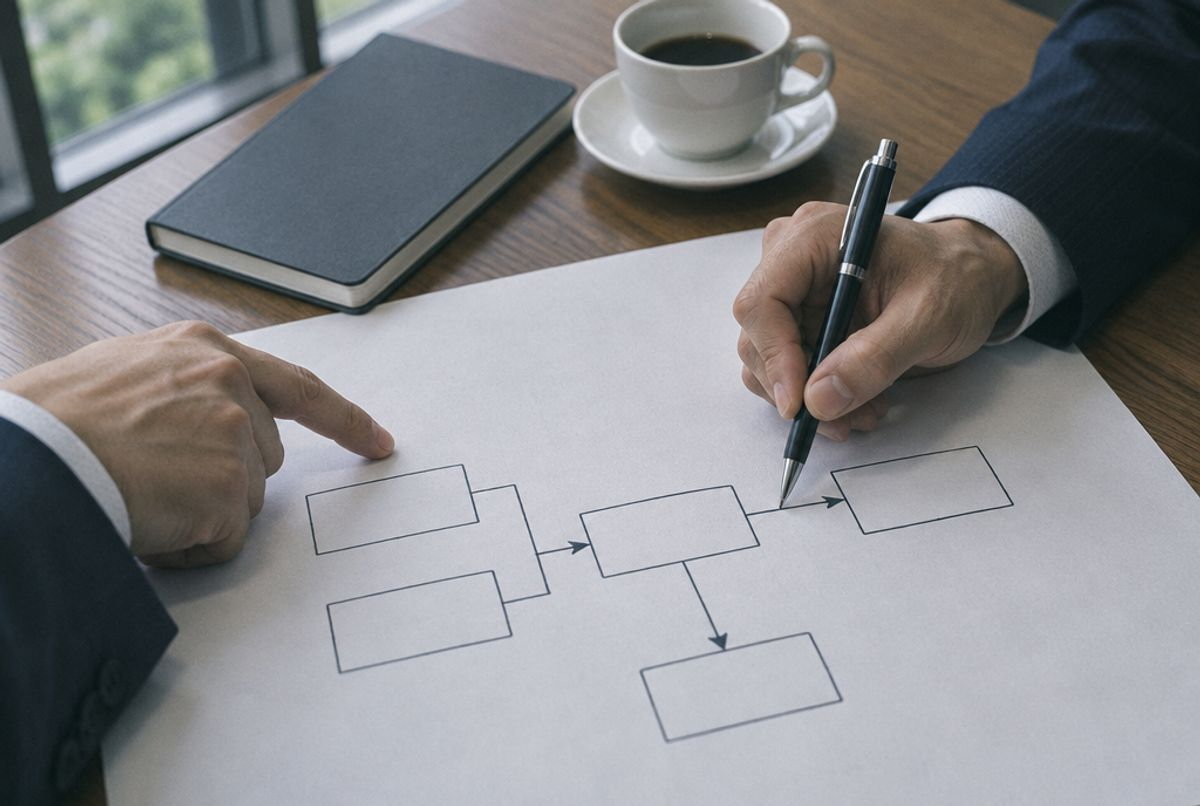
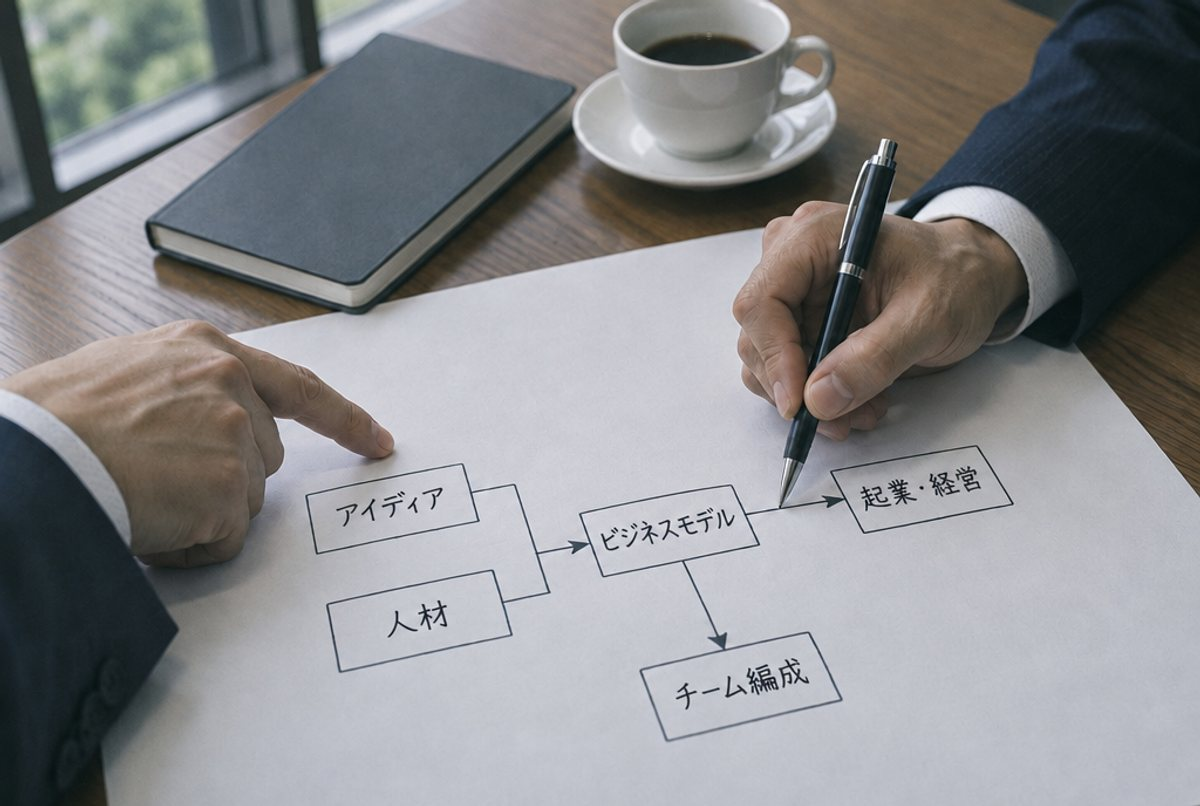
「ビジネスプロデュースとは」の写真：図の5つの枠に言葉を書き入れた画像に差し替え

diff --git a/index.html b/index.html
@@ -12,7 +12,7 @@
 <link rel="preconnect" href="https://fonts.googleapis.com">
 <link rel="preconnect" href="https://fonts.gstatic.com" crossorigin>
 <link rel="stylesheet" href="https://fonts.googleapis.com/css2?family=Barlow+Condensed:wght@500;600&family=Noto+Sans+JP:wght@400;500;700&display=swap">
-<link rel="stylesheet" href="assets/css/style.css?v=202611060234">
+<link rel="stylesheet" href="assets/css/style.css?v=202611060242">
 </head>
 <body id="top" class="home">
 
@@ -55,7 +55,7 @@
 			<a href="#about" class="text-link fx from-r" style="--d:2.05s">ビジネスプロデュースとは<svg viewBox="0 0 24 24" width="16" height="16" aria-hidden="true"><path d="M5 12h14M13 6l6 6-6 6" fill="none" stroke="currentColor" stroke-width="2"/></svg></a>
 		</div>
 	</div>
-	<div class="hero-photo"><img src="assets/img/hero.jpg?v=202611060234" alt="" width="1920" height="1080"></div>
+	<div class="hero-photo"><img src="assets/img/hero.jpg?v=202611060242" alt="" width="1920" height="1080"></div>
 </section>
 
 <section class="entries" aria-label="ご相談の内容から探す">
@@ -95,7 +95,7 @@
 				<p>企業と人材のマッチングを行う顧問ビジネスが盛んになりました。その中には、登録している「企業」と「人材」を一定の条件下で紹介するだけのサービスも見られます。</p>
 				<p>当社のビジネスプロデューサーは、人や企業を紹介して終わりではありません。ビジネスモデルの創造から、人材の選定・チーム編成、起業・経営まで、責任を持って携わります。</p>
 			</div>
-			<div class="about-photo"><img src="assets/img/about.jpg?v=202611060234" alt="" width="1200" height="800" loading="lazy"></div>
+			<div class="about-photo"><img src="assets/img/about.jpg?v=202611060242" alt="" width="1200" height="800" loading="lazy"></div>
 		</div>
 
 		<div class="flow" role="img" aria-label="一般的なマッチングは紹介して終わり。カーネルコンサルティングのビジネスプロデュースは、ビジネスモデルの創造、人材の選定・チーム編成、起業、経営まで携わります。">
@@ -147,25 +147,25 @@
 		</div>
 		<ul class="biz-list">
 			<li><a href="business.html#startup">
-				<span class="biz-img"><img src="assets/img/biz-startup.jpg?v=202611060234" alt="" width="900" height="600" loading="lazy"></span>
+				<span class="biz-img"><img src="assets/img/biz-startup.jpg?v=202611060242" alt="" width="900" height="600" loading="lazy"></span>
 				<span class="biz-en">START UP</span>
 				<span class="biz-t">新規事業の立ち上げ</span>
 				<span class="biz-d">ビジネスプロデューサーが予算の策定・チーム編成を行い、事業を軌道に乗せます。</span>
 			</a></li>
 			<li><a href="business.html#ma">
-				<span class="biz-img"><img src="assets/img/biz-ma.jpg?v=202611060234" alt="" width="900" height="600" loading="lazy"></span>
+				<span class="biz-img"><img src="assets/img/biz-ma.jpg?v=202611060242" alt="" width="900" height="600" loading="lazy"></span>
 				<span class="biz-en">M&amp;A</span>
 				<span class="biz-t">ビジネスモデルの販売</span>
 				<span class="biz-d">事業部として、新会社として。あらゆるステージのビジネスモデルを丸ごとご提供します。</span>
 			</a></li>
 			<li><a href="business.html#school">
-				<span class="biz-img"><img src="assets/img/biz-school.jpg?v=202611060234" alt="" width="900" height="600" loading="lazy"></span>
+				<span class="biz-img"><img src="assets/img/biz-school.jpg?v=202611060242" alt="" width="900" height="600" loading="lazy"></span>
 				<span class="biz-en">SCHOOL</span>
 				<span class="biz-t">学校法人の支援</span>
 				<span class="biz-d">全日制・通信制・定時制の高等学校や塾・予備校の、ICT教育と生徒募集を支援します。</span>
 			</a></li>
 			<li><a href="business.html#shop">
-				<span class="biz-img"><img src="assets/img/biz-shop.jpg?v=202611060234" alt="" width="900" height="600" loading="lazy"></span>
+				<span class="biz-img"><img src="assets/img/biz-shop.jpg?v=202611060242" alt="" width="900" height="600" loading="lazy"></span>
 				<span class="biz-en">SHOP</span>
 				<span class="biz-t">店舗の経営再建</span>
 				<span class="biz-d">ネイルサロンなど、店舗の経営再建の実績があります。資金調達からご相談ください。</span>
@@ -207,7 +207,7 @@
 			<div><dt>設立</dt><dd>2001年8月</dd></div>
 		</dl>
 	</div>
-	<div class="town-bg"><img src="assets/img/takanawa.jpg?v=202611060234" alt="" width="1600" height="1067" loading="lazy"></div>
+	<div class="town-bg"><img src="assets/img/takanawa.jpg?v=202611060242" alt="" width="1600" height="1067" loading="lazy"></div>
 </section>
 
 <section class="cta">
@@ -249,6 +249,6 @@
 </footer>
 
 <a href="#top" class="to-top" id="toTop" aria-label="ページの先頭へ"><svg viewBox="0 0 24 24" width="18" height="18" aria-hidden="true"><path d="M5 15l7-7 7 7" fill="none" stroke="currentColor" stroke-width="2"/></svg></a>
-<script src="assets/js/main.js?v=202611060234"></script>
+<script src="assets/js/main.js?v=202611060242"></script>
 </body>
 </html>

diff --git a/business.html b/business.html
@@ -12,7 +12,7 @@
 <link rel="preconnect" href="https://fonts.googleapis.com">
 <link rel="preconnect" href="https://fonts.gstatic.com" crossorigin>
 <link rel="stylesheet" href="https://fonts.googleapis.com/css2?family=Barlow+Condensed:wght@500;600&family=Noto+Sans+JP:wght@400;500;700&display=swap">
-<link rel="stylesheet" href="assets/css/style.css?v=202611060234">
+<link rel="stylesheet" href="assets/css/style.css?v=202611060242">
 </head>
 <body id="top" class="sub">
 
@@ -59,7 +59,7 @@
 
 <section class="svc sec" id="startup">
 	<div class="inner svc-grid">
-		<div class="svc-photo"><img src="assets/img/biz-startup.jpg?v=202611060234" alt="" width="900" height="600"></div>
+		<div class="svc-photo"><img src="assets/img/biz-startup.jpg?v=202611060242" alt="" width="900" height="600"></div>
 		<div class="svc-text">
 			<p class="eyebrow">START UP</p>
 			<h2>M&amp;Aを視野に入れた、<br>新規事業の立ち上げ</h2>
@@ -80,7 +80,7 @@
 
 <section class="svc sec alt" id="ma">
 	<div class="inner svc-grid rev">
-		<div class="svc-photo"><img src="assets/img/biz-ma.jpg?v=202611060234" alt="" width="900" height="600" loading="lazy"></div>
+		<div class="svc-photo"><img src="assets/img/biz-ma.jpg?v=202611060242" alt="" width="900" height="600" loading="lazy"></div>
 		<div class="svc-text">
 			<p class="eyebrow">M&amp;A</p>
 			<h2>あらゆるステージの<br>ビジネスモデルを販売</h2>
@@ -101,7 +101,7 @@
 
 <section class="svc sec" id="school">
 	<div class="inner svc-grid">
-		<div class="svc-photo"><img src="assets/img/biz-school.jpg?v=202611060234" alt="" width="900" height="600" loading="lazy"></div>
+		<div class="svc-photo"><img src="assets/img/biz-school.jpg?v=202611060242" alt="" width="900" height="600" loading="lazy"></div>
 		<div class="svc-text">
 			<p class="eyebrow">SCHOOL</p>
 			<h2 class="pair-h"><span>学校法人</span><i class="x" aria-label="かける"></i><span>生徒募集</span></h2>
@@ -120,7 +120,7 @@
 
 <section class="svc sec alt" id="shop">
 	<div class="inner svc-grid rev">
-		<div class="svc-photo"><img src="assets/img/biz-shop.jpg?v=202611060234" alt="" width="900" height="600" loading="lazy"></div>
+		<div class="svc-photo"><img src="assets/img/biz-shop.jpg?v=202611060242" alt="" width="900" height="600" loading="lazy"></div>
 		<div class="svc-text">
 			<p class="eyebrow">SHOP</p>
 			<h2 class="pair-h"><span>店舗</span><i class="x" aria-label="かける"></i><span>経営再建</span></h2>
@@ -175,6 +175,6 @@
 </footer>
 
 <a href="#top" class="to-top" id="toTop" aria-label="ページの先頭へ"><svg viewBox="0 0 24 24" width="18" height="18" aria-hidden="true"><path d="M5 15l7-7 7 7" fill="none" stroke="currentColor" stroke-width="2"/></svg></a>
-<script src="assets/js/main.js?v=202611060234"></script>
+<script src="assets/js/main.js?v=202611060242"></script>
 </body>
 </html>

diff --git a/company.html b/company.html
@@ -12,7 +12,7 @@
 <link rel="preconnect" href="https://fonts.googleapis.com">
 <link rel="preconnect" href="https://fonts.gstatic.com" crossorigin>
 <link rel="stylesheet" href="https://fonts.googleapis.com/css2?family=Barlow+Condensed:wght@500;600&family=Noto+Sans+JP:wght@400;500;700&display=swap">
-<link rel="stylesheet" href="assets/css/style.css?v=202611060234">
+<link rel="stylesheet" href="assets/css/style.css?v=202611060242">
 </head>
 <body id="top" class="sub">
 
@@ -76,7 +76,7 @@
 			<div><dt>定休日</dt><dd>土曜日・日曜日・祝日</dd></div>
 		</dl>
 	</div>
-	<div class="town-bg soft"><img src="assets/img/takanawa.jpg?v=202611060234" alt="" width="1600" height="1067" loading="lazy"></div>
+	<div class="town-bg soft"><img src="assets/img/takanawa.jpg?v=202611060242" alt="" width="1600" height="1067" loading="lazy"></div>
 </section>
 
 <section class="sec" id="access">
@@ -127,6 +127,6 @@
 </footer>
 
 <a href="#top" class="to-top" id="toTop" aria-label="ページの先頭へ"><svg viewBox="0 0 24 24" width="18" height="18" aria-hidden="true"><path d="M5 15l7-7 7 7" fill="none" stroke="currentColor" stroke-width="2"/></svg></a>
-<script src="assets/js/main.js?v=202611060234"></script>
+<script src="assets/js/main.js?v=202611060242"></script>
 </body>
 </html>

diff --git a/contact.html b/contact.html
@@ -12,7 +12,7 @@
 <link rel="preconnect" href="https://fonts.googleapis.com">
 <link rel="preconnect" href="https://fonts.gstatic.com" crossorigin>
 <link rel="stylesheet" href="https://fonts.googleapis.com/css2?family=Barlow+Condensed:wght@500;600&family=Noto+Sans+JP:wght@400;500;700&display=swap">
-<link rel="stylesheet" href="assets/css/style.css?v=202611060234">
+<link rel="stylesheet" href="assets/css/style.css?v=202611060242">
 </head>
 <body id="top" class="sub">
 
@@ -99,7 +99,7 @@
 		</form>
 	</div>
 </section>
-<script src="assets/js/forms.js?v=202611060234" defer></script>
+<script src="assets/js/forms.js?v=202611060242" defer></script>
 
 </main>
 
@@ -129,6 +129,6 @@
 </footer>
 
 <a href="#top" class="to-top" id="toTop" aria-label="ページの先頭へ"><svg viewBox="0 0 24 24" width="18" height="18" aria-hidden="true"><path d="M5 15l7-7 7 7" fill="none" stroke="currentColor" stroke-width="2"/></svg></a>
-<script src="assets/js/main.js?v=202611060234"></script>
+<script src="assets/js/main.js?v=202611060242"></script>
 </body>
 </html>

diff --git a/thanks.html b/thanks.html
@@ -12,7 +12,7 @@
 <link rel="preconnect" href="https://fonts.googleapis.com">
 <link rel="preconnect" href="https://fonts.gstatic.com" crossorigin>
 <link rel="stylesheet" href="https://fonts.googleapis.com/css2?family=Barlow+Condensed:wght@500;600&family=Noto+Sans+JP:wght@400;500;700&display=swap">
-<link rel="stylesheet" href="assets/css/style.css?v=202611060234">
+<link rel="stylesheet" href="assets/css/style.css?v=202611060242">
 </head>
 <body id="top" class="sub">
 
@@ -85,6 +85,6 @@
 </footer>
 
 <a href="#top" class="to-top" id="toTop" aria-label="ページの先頭へ"><svg viewBox="0 0 24 24" width="18" height="18" aria-hidden="true"><path d="M5 15l7-7 7 7" fill="none" stroke="currentColor" stroke-width="2"/></svg></a>
-<script src="assets/js/main.js?v=202611060234"></script>
+<script src="assets/js/main.js?v=202611060242"></script>
 </body>
 </html>
